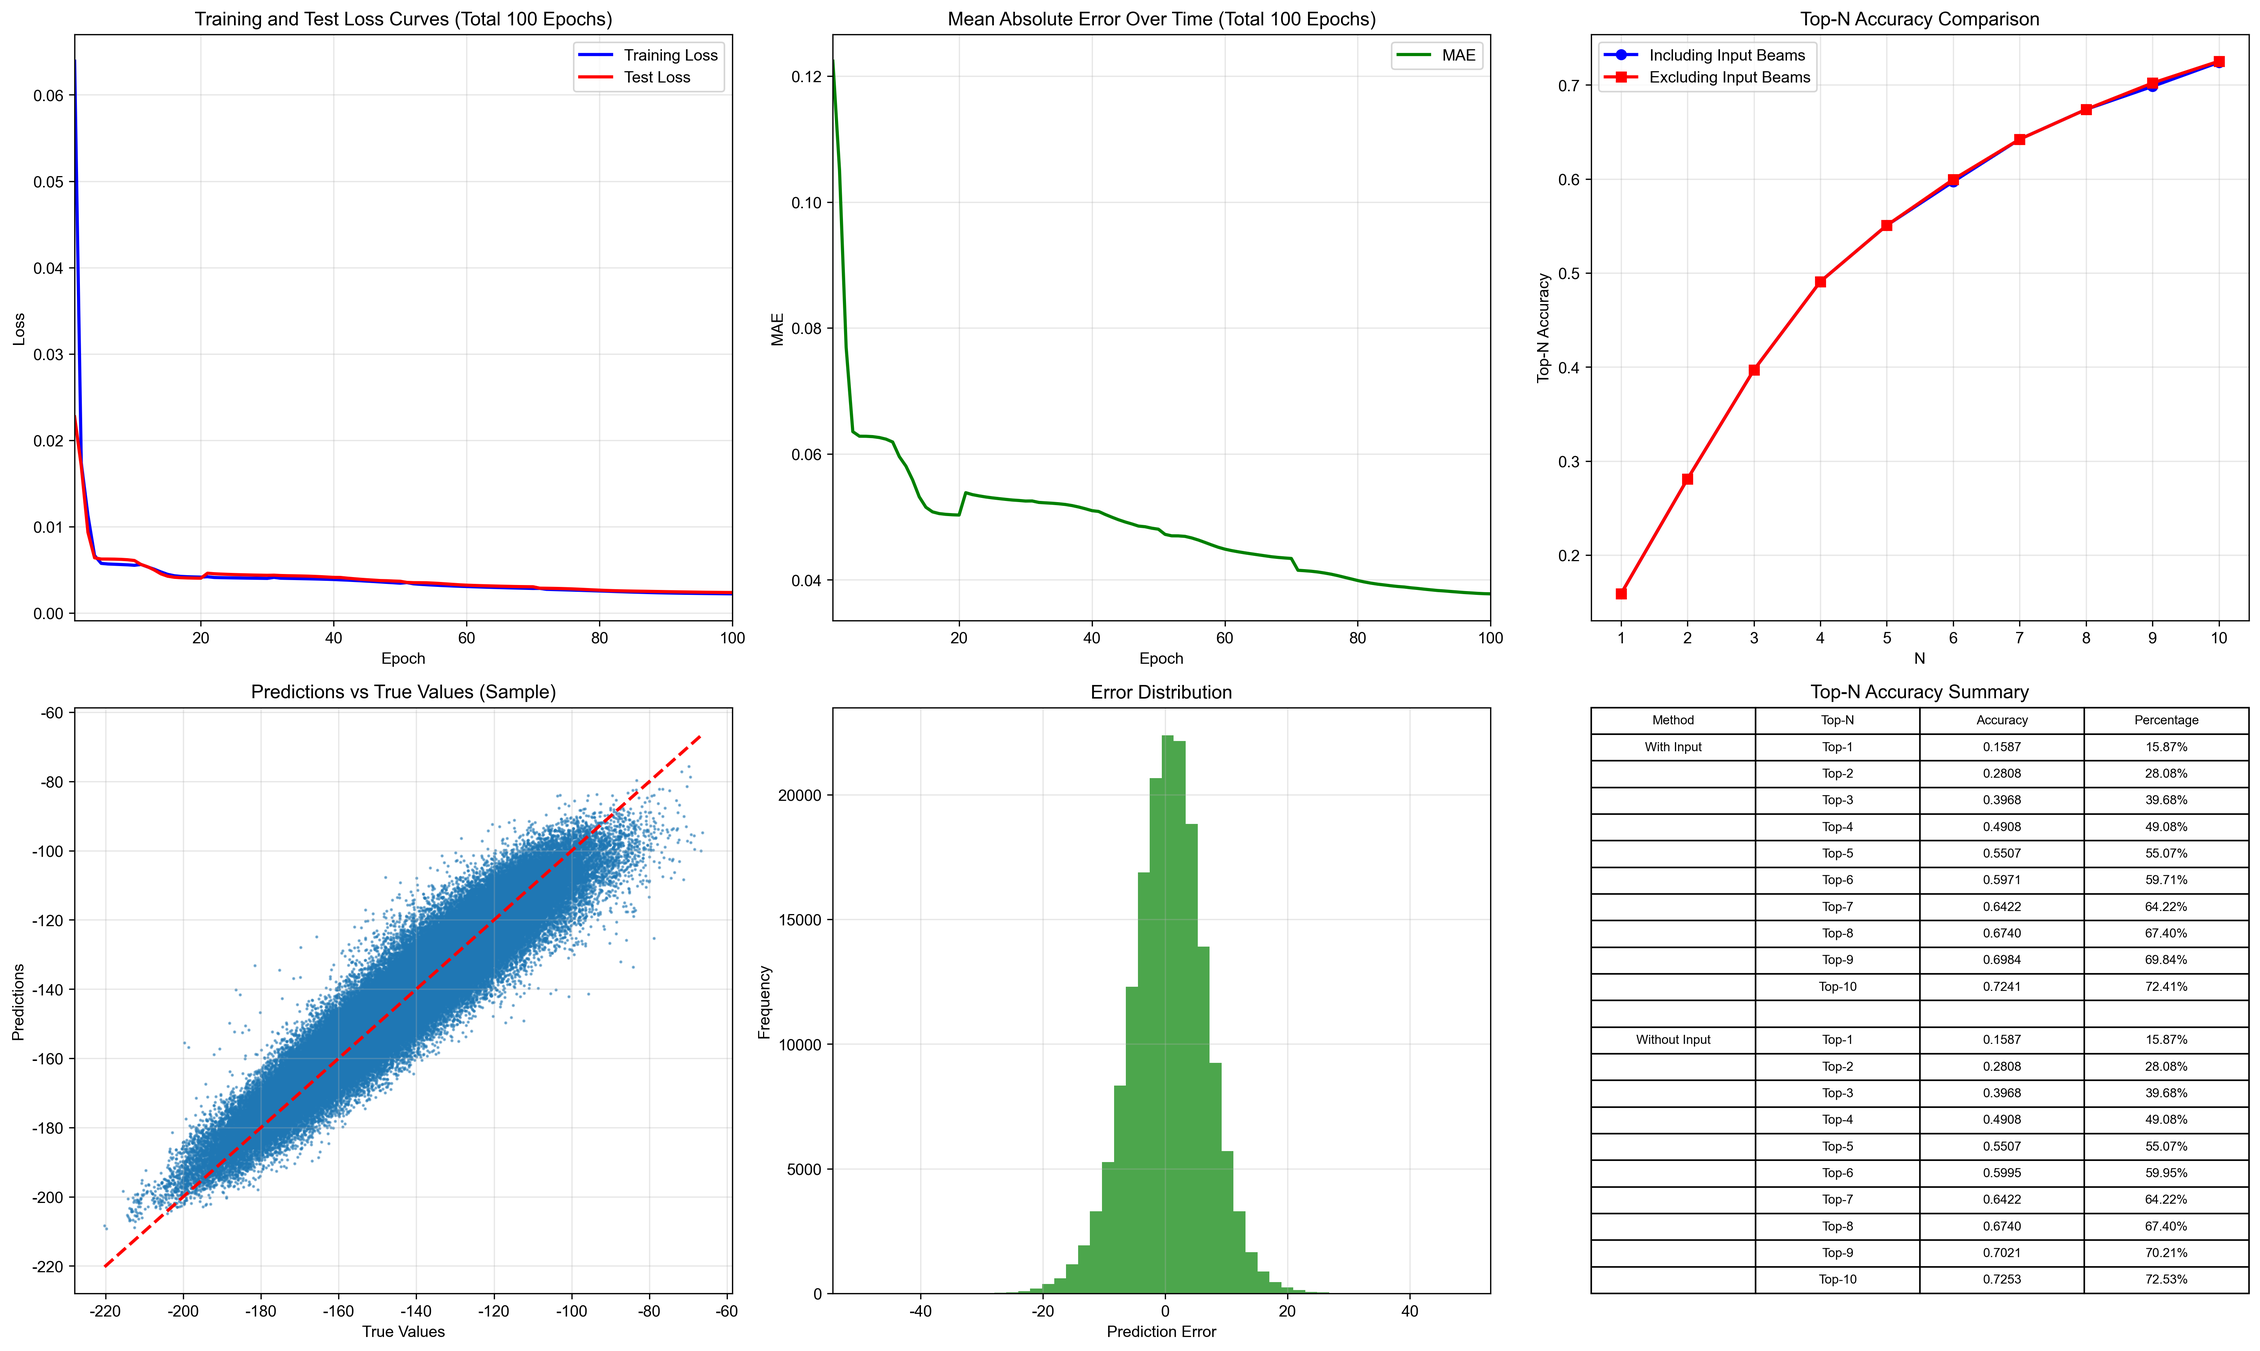
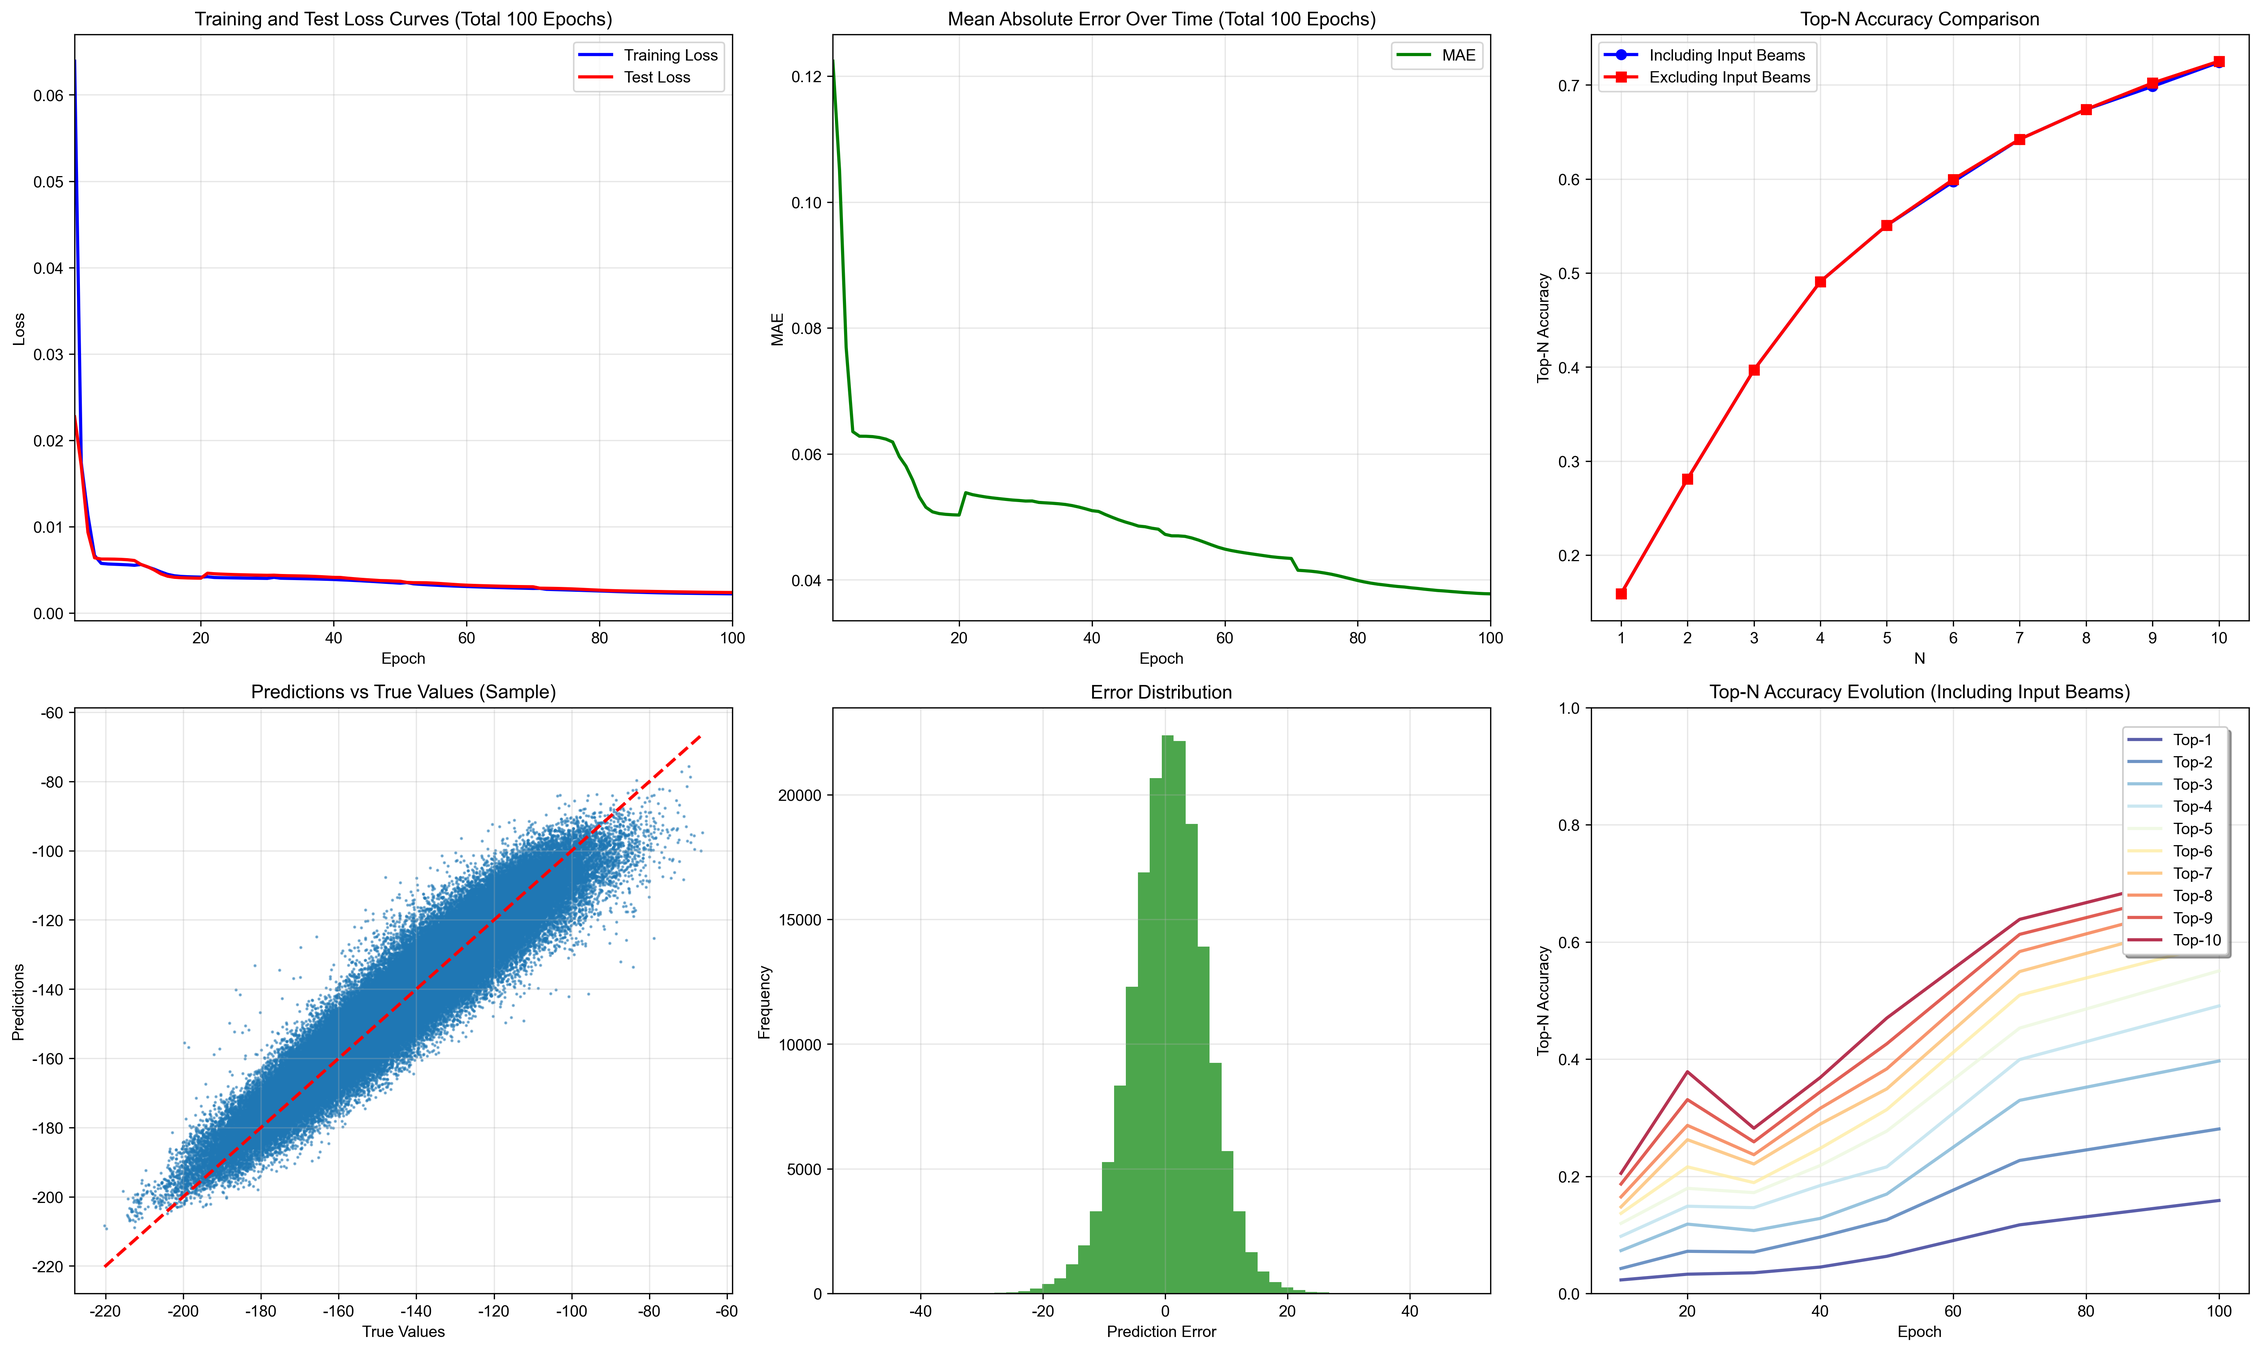
更新画图

Changed region(s): [[0.7168, 0.4978, 0.9973, 0.9644], [0.7168, 0.5289, 0.748, 0.56]]

diff --git a/pqc_reup_analyze.py b/pqc_reup_analyze.py
@@ -83,7 +83,7 @@ def plot_training_curves(train_losses, test_losses, mae_scores, epoch_num, outpu
 
 def plot_comprehensive_results(train_losses, test_losses, mae_scores, predictions, targets, input_indices, epoch_num, output_dir='pqc_reup_v1_output'):
     """绘制综合结果图像，包含训练曲线和Top-N分析，正确显示累积epoch数据"""
-    # 计算Top-N准确率
+    # 计算当前epoch的Top-N准确率
     top_n_results = calculate_top_n_accuracy_both_methods(
         predictions, targets, input_indices, top_n_max=10
     )
@@ -114,7 +114,7 @@ def plot_comprehensive_results(train_losses, test_losses, mae_scores, prediction
     axes[0, 1].grid(True, alpha=0.3)
     axes[0, 1].set_xlim(1, total_epochs)
     
-    # Top-N准确率对比曲线
+    # Top-N准确率对比曲线（当前epoch的准确率）
     n_values = list(range(1, len(top_n_results['with_input']) + 1))
     axes[0, 2].plot(n_values, top_n_results['with_input'], 'o-', linewidth=2, markersize=6, 
                     label='Including Input Beams', color='blue')
@@ -127,7 +127,7 @@ def plot_comprehensive_results(train_losses, test_losses, mae_scores, prediction
     axes[0, 2].legend()
     axes[0, 2].grid(True, alpha=0.3)
     
-    # 第二行：预测分析
+    # 第二行：预测分析和Top-N随epoch变化曲线
     sample_size = min(1000, len(predictions))
     sample_indices = np.random.choice(len(predictions), sample_size, replace=False)
     
@@ -148,38 +148,87 @@ def plot_comprehensive_results(train_losses, test_losses, mae_scores, prediction
     axes[1, 1].set_title(f'Error Distribution')
     axes[1, 1].grid(True, alpha=0.3)
     
-    # Top-N准确率数值表
-    axes[1, 2].axis('tight')
-    axes[1, 2].axis('off')
+    # Top-N准确率随epoch变化曲线（只显示包含输入波束的方法）
+    # 收集所有可用epoch的Top-N数据
+    top_n_evolution_with = []    # 方法A各epoch的Top-N准确率
+    evolution_epochs = []        # 对应的epoch编号
     
-    # 创建表格数据
-    table_data = [['Method', 'Top-N', 'Accuracy', 'Percentage']]
+    # 遍历所有可用的epoch数据文件
+    for epoch_check in range(1, epoch_num + 1):
+        eval_file = os.path.join(output_dir, f'evaluation_results_epoch_{epoch_check}.json')
+        if os.path.exists(eval_file):
+            try:
+                with open(eval_file, 'r') as f:
+                    eval_data = json.load(f)
+                pred_check = np.array(eval_data['predictions'])
+                target_check = np.array(eval_data['targets'])
+                
+                # 计算该epoch的Top-N准确率（只计算包含输入波束的方法）
+                epoch_results = calculate_top_n_accuracy_both_methods(
+                    pred_check, target_check, input_indices, top_n_max=10
+                )
+                
+                top_n_evolution_with.append(epoch_results['with_input'])
+                evolution_epochs.append(epoch_check)
+                
+            except Exception as e:
+                print(f"警告: 无法加载epoch {epoch_check} 的评估数据: {e}")
+                continue
     
-    # 方法A数据
-    for i, acc in enumerate(top_n_results['with_input']):
-        table_data.append([
-            'With Input' if i == 0 else '', 
-            f'Top-{i+1}', 
-            f'{acc:.4f}', 
-            f'{acc*100:.2f}%'
-        ])
-    
-    # 添加分隔行
-    table_data.append(['', '', '', ''])
-    
-    # 方法B数据
-    for i, acc in enumerate(top_n_results['without_input']):
-        table_data.append([
-            'Without Input' if i == 0 else '', 
-            f'Top-{i+1}', 
-            f'{acc:.4f}', 
-            f'{acc*100:.2f}%'
-        ])
-    
-    table = axes[1, 2].table(cellText=table_data, cellLoc='center', loc='center', bbox=[0, 0, 1, 1])
-    table.auto_set_font_size(False)
-    table.set_fontsize(8)
-    axes[1, 2].set_title(f'Top-N Accuracy Summary')
+    # 绘制Top-N准确率演化曲线（只显示包含输入波束）
+    if top_n_evolution_with:
+        n_count = len(top_n_evolution_with[0])  # N的数量
+        # 创建从红色到蓝色的颜色过渡
+        colors = plt.cm.RdYlBu_r(np.linspace(0, 1, n_count))  # 反转色彩映射使Top-1为红色
+        
+        # 为每个Top-N值绘制演化曲线
+        legend_lines = []
+        legend_labels = []
+        for n_idx in range(n_count):
+            # 方法A：包含输入波束 - 实线
+            with_acc_by_epoch = [epoch_data[n_idx] for epoch_data in top_n_evolution_with]
+            line = axes[1, 2].plot(evolution_epochs, with_acc_by_epoch, 
+                                  linewidth=2, linestyle='-', alpha=0.8,
+                                  color=colors[n_idx])
+            
+            legend_lines.append(line[0])
+            legend_labels.append(f'Top-{n_idx+1}')
+        
+        axes[1, 2].set_xlabel('Epoch')
+        axes[1, 2].set_ylabel('Top-N Accuracy')
+        axes[1, 2].set_title(f'Top-N Accuracy Evolution (Including Input Beams)')
+        axes[1, 2].set_ylim(0, 1)
+        
+        # 将图例放在图像内部左上角
+        axes[1, 2].legend(legend_lines, legend_labels, 
+                         loc='upper left', bbox_to_anchor=(0.02, 0.98),
+                         frameon=True, fancybox=True, shadow=True)
+        axes[1, 2].grid(True, alpha=0.3)
+    else:
+        # 如果没有历史数据，显示当前epoch的水平线
+        n_range = range(1, len(top_n_results['with_input']) + 1)
+        # 创建从红色到蓝色的颜色过渡
+        colors = plt.cm.RdYlBu_r(np.linspace(0, 1, len(n_range)))
+        
+        # 为所有Top-N值显示水平线
+        legend_lines = []
+        legend_labels = []
+        for i, acc_with in enumerate(top_n_results['with_input']):
+            line = axes[1, 2].axhline(y=acc_with, xmin=0, xmax=1, color=colors[i], 
+                                     linewidth=2, linestyle='-', alpha=0.7)
+            legend_lines.append(line)
+            legend_labels.append(f'Top-{i+1}')
+        
+        axes[1, 2].set_xlabel('Epoch')
+        axes[1, 2].set_ylabel('Top-N Accuracy')
+        axes[1, 2].set_title(f'Top-N Accuracy (Current Epoch Only)')
+        axes[1, 2].set_ylim(0, 1)
+        
+        # 将图例放在图像内部左上角
+        axes[1, 2].legend(legend_lines, legend_labels, 
+                         loc='upper left', bbox_to_anchor=(0.02, 0.98),
+                         frameon=True, fancybox=True, shadow=True)
+        axes[1, 2].grid(True, alpha=0.3)
     
     plt.tight_layout()
     
@@ -301,63 +350,113 @@ def calculate_top_n_accuracy_both_methods(predictions, targets, input_indices, t
 
 def plot_top_n_analysis(predictions, targets, input_indices, epoch_num, output_dir='pqc_reup_v1_output'):
     """绘制Top-N准确率分析图像"""
-    # 计算两种Top-N准确率
+    # 计算当前epoch的Top-N准确率
     top_n_results = calculate_top_n_accuracy_both_methods(
         predictions, targets, input_indices, top_n_max=10
     )
     
     fig, axes = plt.subplots(1, 2, figsize=(15, 6))
     
-    # Top-N准确率对比曲线
+    # Top-N准确率对比曲线（按N值）
     n_values = list(range(1, len(top_n_results['with_input']) + 1))
     
     # 方法A：包含输入波束
     axes[0].plot(n_values, top_n_results['with_input'], 'o-', linewidth=2, markersize=6, 
                  label='Including Input Beams', color='blue')
     
-    # 方法B：不包含输入波束
-    axes[0].plot(n_values, top_n_results['without_input'], 'o-', linewidth=2, markersize=6, 
+    # 方法B：不包含输入波束（仍然显示用于对比）
+    axes[0].plot(n_values, top_n_results['without_input'], 's-', linewidth=2, markersize=6, 
                  label='Excluding Input Beams', color='red')
     
     axes[0].set_xlabel('N')
     axes[0].set_ylabel('Top-N Accuracy')
-    axes[0].set_title(f'Top-N Accuracy Comparison - Epoch {epoch_num}')
+    axes[0].set_title(f'Top-N Accuracy by N Value - Epoch {epoch_num}')
     axes[0].set_xticks(n_values)
     axes[0].legend()
     axes[0].grid(True, alpha=0.3)
+    axes[0].set_ylim(0, 1)
     
-    # Top-N准确率数值表
-    axes[1].axis('tight')
-    axes[1].axis('off')
+    # Top-N准确率随epoch变化曲线（只显示包含输入波束的方法）
+    # 收集所有可用epoch的Top-N数据
+    top_n_evolution_with = []    # 方法A各epoch的Top-N准确率
+    evolution_epochs = []        # 对应的epoch编号
     
-    # 创建表格数据
-    table_data = [['Method', 'Top-N', 'Accuracy', 'Percentage']]
+    # 遍历所有可用的epoch数据文件
+    for epoch_check in range(1, epoch_num + 1):
+        eval_file = os.path.join(output_dir, f'evaluation_results_epoch_{epoch_check}.json')
+        if os.path.exists(eval_file):
+            try:
+                with open(eval_file, 'r') as f:
+                    eval_data = json.load(f)
+                pred_check = np.array(eval_data['predictions'])
+                target_check = np.array(eval_data['targets'])
+                
+                # 计算该epoch的Top-N准确率（只计算包含输入波束的方法）
+                epoch_results = calculate_top_n_accuracy_both_methods(
+                    pred_check, target_check, input_indices, top_n_max=10
+                )
+                
+                top_n_evolution_with.append(epoch_results['with_input'])
+                evolution_epochs.append(epoch_check)
+                
+            except Exception as e:
+                print(f"警告: 无法加载epoch {epoch_check} 的评估数据: {e}")
+                continue
     
-    # 方法A数据
-    for i, acc in enumerate(top_n_results['with_input']):
-        table_data.append([
-            'With Input' if i == 0 else '', 
-            f'Top-{i+1}', 
-            f'{acc:.4f}', 
-            f'{acc*100:.2f}%'
-        ])
-    
-    # 添加分隔行
-    table_data.append(['', '', '', ''])
-    
-    # 方法B数据
-    for i, acc in enumerate(top_n_results['without_input']):
-        table_data.append([
-            'Without Input' if i == 0 else '', 
-            f'Top-{i+1}', 
-            f'{acc:.4f}', 
-            f'{acc*100:.2f}%'
-        ])
-    
-    table = axes[1].table(cellText=table_data, cellLoc='center', loc='center', bbox=[0, 0, 1, 1])
-    table.auto_set_font_size(False)
-    table.set_fontsize(9)
-    axes[1].set_title(f'Top-N Accuracy Summary - Epoch {epoch_num}')
+    # 绘制Top-N准确率演化曲线（只显示包含输入波束）
+    if top_n_evolution_with:
+        n_count = len(top_n_evolution_with[0])  # N的数量
+        # 创建从红色到蓝色的颜色过渡
+        colors = plt.cm.RdYlBu_r(np.linspace(0, 1, n_count))  # 反转色彩映射使Top-1为红色
+        
+        # 为每个Top-N值绘制演化曲线
+        legend_lines = []
+        legend_labels = []
+        for n_idx in range(n_count):
+            # 方法A：包含输入波束 - 实线
+            with_acc_by_epoch = [epoch_data[n_idx] for epoch_data in top_n_evolution_with]
+            line = axes[1].plot(evolution_epochs, with_acc_by_epoch, 
+                               linewidth=2, linestyle='-', alpha=0.8,
+                               color=colors[n_idx])
+            
+            legend_lines.append(line[0])
+            legend_labels.append(f'Top-{n_idx+1}')
+        
+        axes[1].set_xlabel('Epoch')
+        axes[1].set_ylabel('Top-N Accuracy')
+        axes[1].set_title(f'Top-N Accuracy Evolution (Including Input Beams)')
+        axes[1].set_ylim(0, 1)
+        
+        # 将图例放在图像内部左上角
+        axes[1].legend(legend_lines, legend_labels, 
+                      loc='upper left', bbox_to_anchor=(0.02, 0.98),
+                      frameon=True, fancybox=True, shadow=True)
+        axes[1].grid(True, alpha=0.3)
+    else:
+        # 如果没有历史数据，显示当前epoch的水平线
+        n_range = range(1, len(top_n_results['with_input']) + 1)
+        # 创建从红色到蓝色的颜色过渡
+        colors = plt.cm.RdYlBu_r(np.linspace(0, 1, len(n_range)))
+        
+        # 为所有Top-N值显示水平线
+        legend_lines = []
+        legend_labels = []
+        for i, acc_with in enumerate(top_n_results['with_input']):
+            line = axes[1].axhline(y=acc_with, xmin=0, xmax=1, color=colors[i], 
+                                  linewidth=2, linestyle='-', alpha=0.7)
+            legend_lines.append(line)
+            legend_labels.append(f'Top-{i+1}')
+        
+        axes[1].set_xlabel('Epoch')
+        axes[1].set_ylabel('Top-N Accuracy')
+        axes[1].set_title(f'Top-N Accuracy (Current Epoch Only)')
+        axes[1].set_ylim(0, 1)
+        
+        # 将图例放在图像内部左上角
+        axes[1].legend(legend_lines, legend_labels, 
+                      loc='upper left', bbox_to_anchor=(0.02, 0.98),
+                      frameon=True, fancybox=True, shadow=True)
+        axes[1].grid(True, alpha=0.3)
     
     plt.tight_layout()
     

diff --git a/pqc_reup_v1.py b/pqc_reup_v1.py
@@ -19,9 +19,9 @@ np.random.seed(42)
 # Hyperparameter configuration
 HYPERPARAMETERS = {
     # Data configuration
-    'TRAIN_START': 8192,
-    'TRAIN_END': 12288,
-    'EPOCHS': 20,  # 设置为标准训练轮数
+    'TRAIN_START': 0,
+    'TRAIN_END': 4096,
+    'EPOCHS': 30,  # 设置为标准训练轮数
     'BATCH_SIZE': 32,
     'TEST_RATIO': 0.2,  # Test set accounts for 1/5 of training set
     'CONTINUE_TRAINING': True,
@@ -50,8 +50,8 @@ HYPERPARAMETERS = {
     'SHUFFLE_TRAIN': False,
     
     # Other configuration
-    # 'DATA_PATH': '/Users/luxian/DataSpace/beam_pre/sls_beam_data_spatial_domain_vivo.mat',
-    'DATA_PATH': 'C:\\Users\\HP\\DataSpace\\beam_pre\\sls_beam_data_spatial_domain_vivo.mat',
+    'DATA_PATH': '/Users/luxian/DataSpace/beam_pre/sls_beam_data_spatial_domain_vivo.mat',
+    # 'DATA_PATH': 'C:\\Users\\HP\\DataSpace\\beam_pre\\sls_beam_data_spatial_domain_vivo.mat',
     'OUTPUT_DIR': 'pqc_reup_v1_output'
 }
 

diff --git a/pqc_reup_v1_output/analysis_report_epoch_100.md b/pqc_reup_v1_output/analysis_report_epoch_100.md
@@ -1,7 +1,7 @@
 # PQC_REUP_V1 Analysis Report - Epoch 100
 
 ## Experiment Information
-- **Analysis Time**: 2026-02-10 10:47:23
+- **Analysis Time**: 2026-02-11 12:10:02
 - **Trained Epochs**: 100
 - **Output Directory**: pqc_reup_v1_output
 

diff --git a/pqc_reup_v1_output/analysis_report_epoch_150.md b/pqc_reup_v1_output/analysis_report_epoch_150.md
@@ -1,7 +1,7 @@
 # PQC_REUP_V1 Analysis Report - Epoch 150
 
 ## Experiment Information
-- **Analysis Time**: 2026-02-10 13:01:37
+- **Analysis Time**: 2026-02-11 12:15:45
 - **Trained Epochs**: 150
 - **Output Directory**: pqc_reup_v1_output
 

diff --git a/pqc_reup_v1_output/analysis_report_epoch_170.md b/pqc_reup_v1_output/analysis_report_epoch_170.md
@@ -1,7 +1,7 @@
 # PQC_REUP_V1 Analysis Report - Epoch 170
 
 ## Experiment Information
-- **Analysis Time**: 2026-02-11 09:49:22
+- **Analysis Time**: 2026-02-11 12:13:30
 - **Trained Epochs**: 170
 - **Output Directory**: pqc_reup_v1_output
 

diff --git a/pqc_reup_v1_output/analysis_report_epoch_10.md b/pqc_reup_v1_output/analysis_report_epoch_10.md
@@ -1,7 +1,7 @@
 # PQC_REUP_V1 Analysis Report - Epoch 10
 
 ## Experiment Information
-- **Analysis Time**: 2026-02-09 21:41:53
+- **Analysis Time**: 2026-02-11 11:51:14
 - **Trained Epochs**: 10
 - **Output Directory**: pqc_reup_v1_output
 

diff --git a/pqc_reup_v1_output/analysis_report_epoch_70.md b/pqc_reup_v1_output/analysis_report_epoch_70.md
@@ -1,7 +1,7 @@
 # PQC_REUP_V1 Analysis Report - Epoch 70
 
 ## Experiment Information
-- **Analysis Time**: 2026-02-10 09:50:04
+- **Analysis Time**: 2026-02-11 12:12:52
 - **Trained Epochs**: 70
 - **Output Directory**: pqc_reup_v1_output
 
